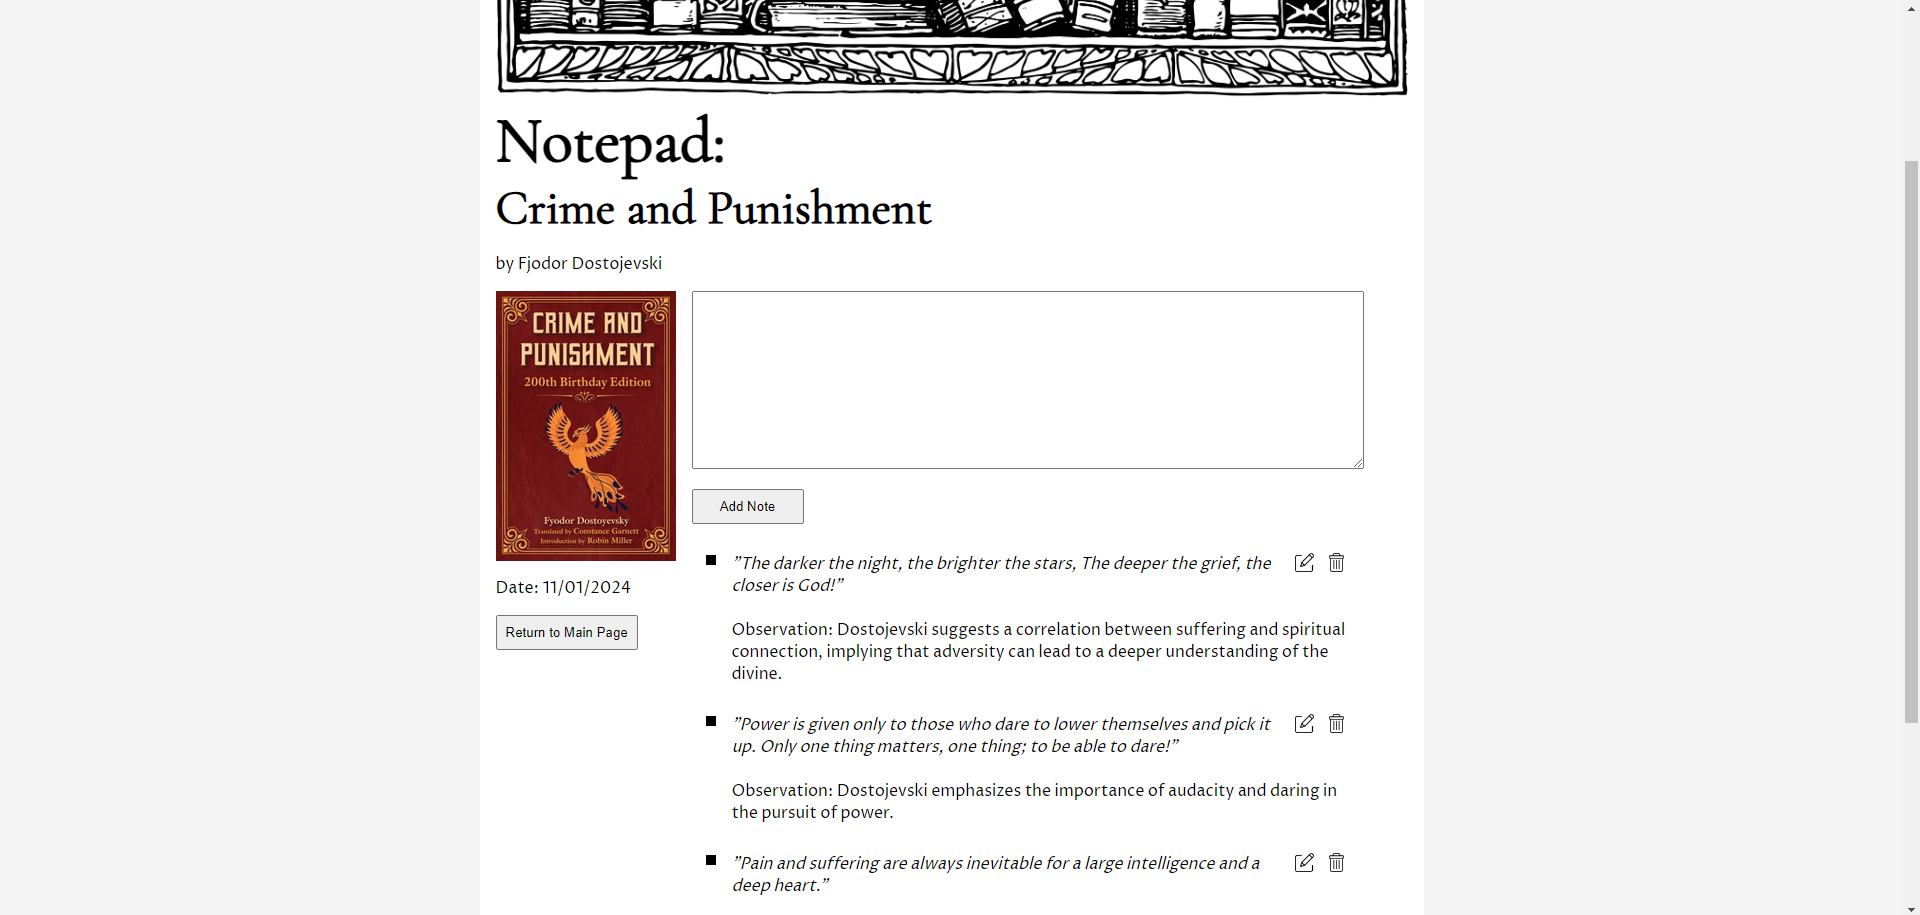
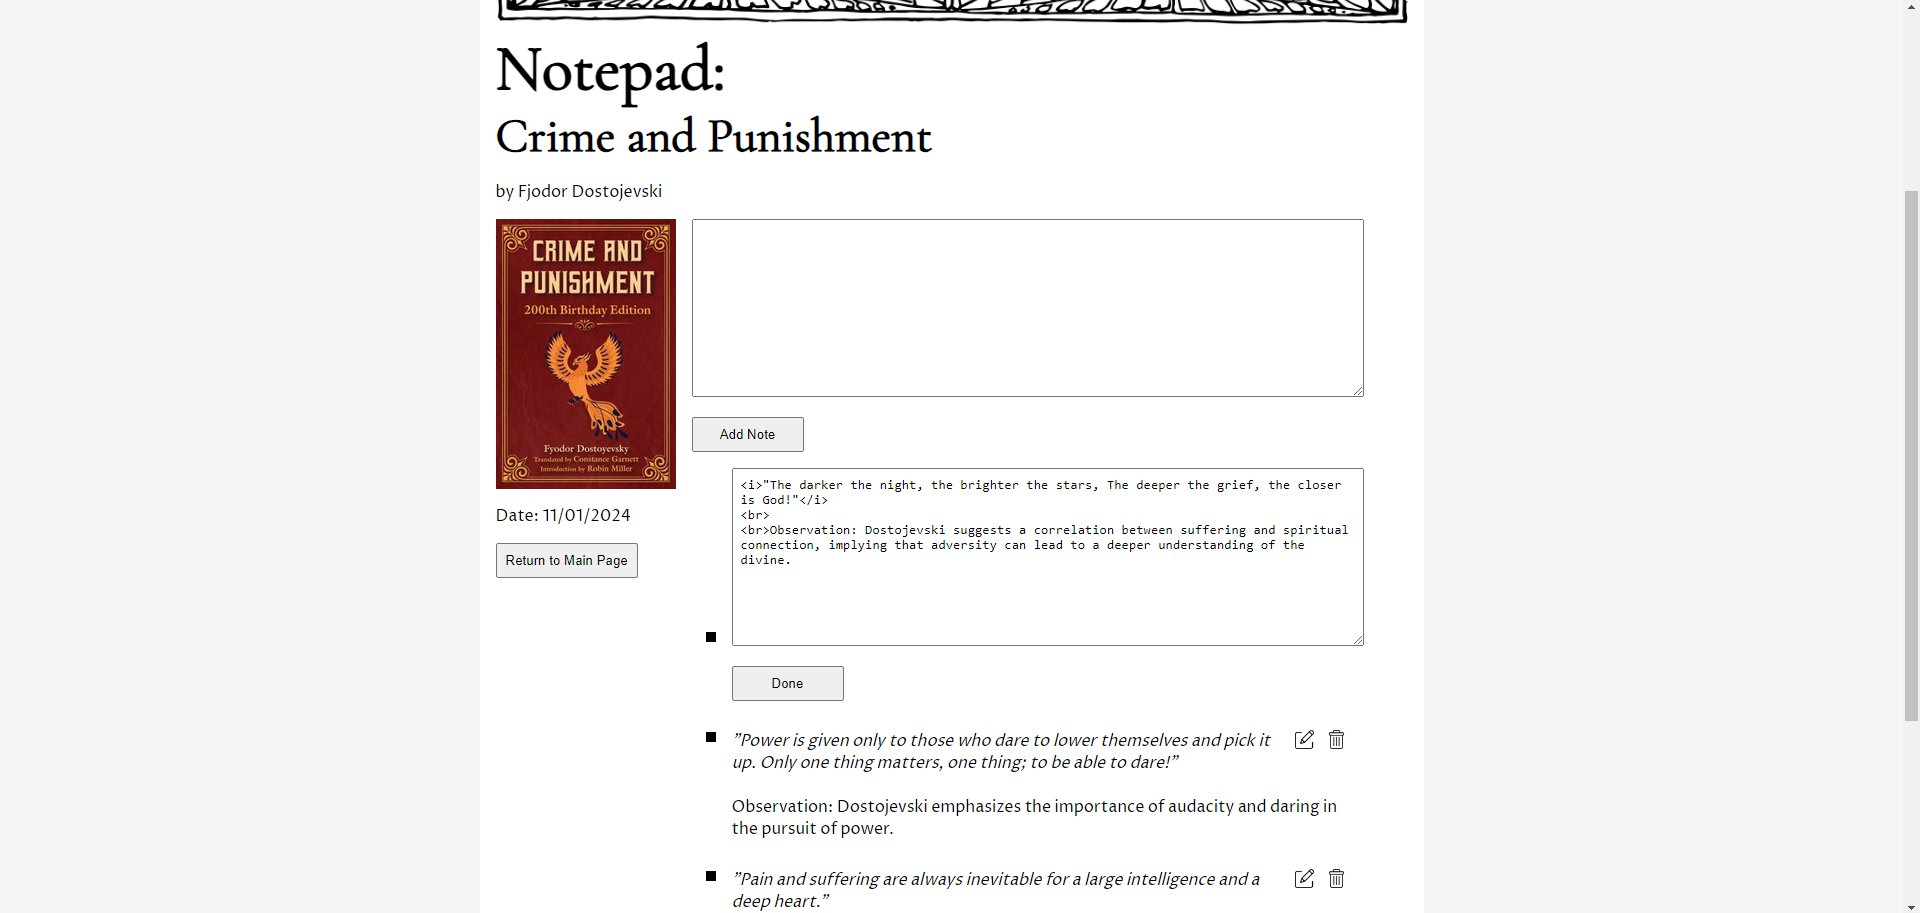
Update a screenshot. Update README.md

diff --git a/README.md b/README.md
@@ -103,6 +103,6 @@ The application was built with Express.js for server-side functionality, EJS for
 
 ![New logbook entry form](public/assets/images/screenshots/screen3.png)
 
-4. **Notepad with listed notes and `Add Note` feature**
+4. **Notepad with notes listing and `Add Note`, `Update Note` and `Delete Note` features**
 
 ![Notepad](public/assets/images/screenshots/screen4.png)
